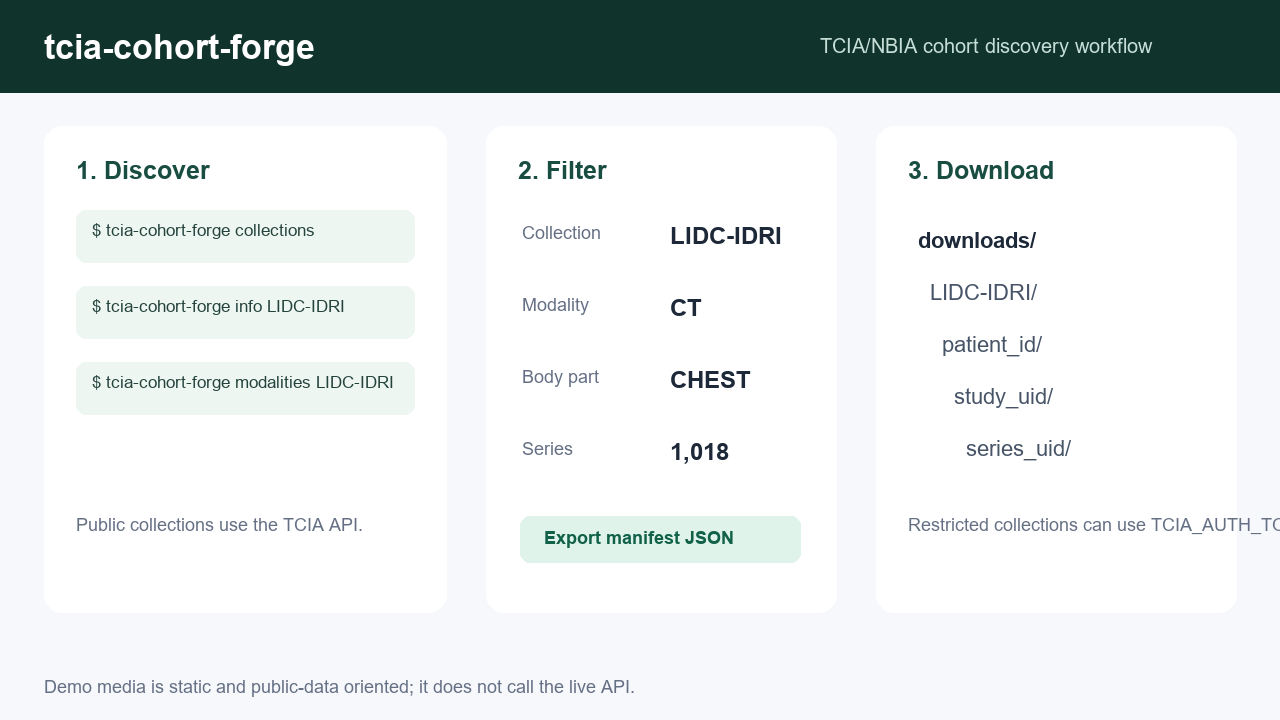
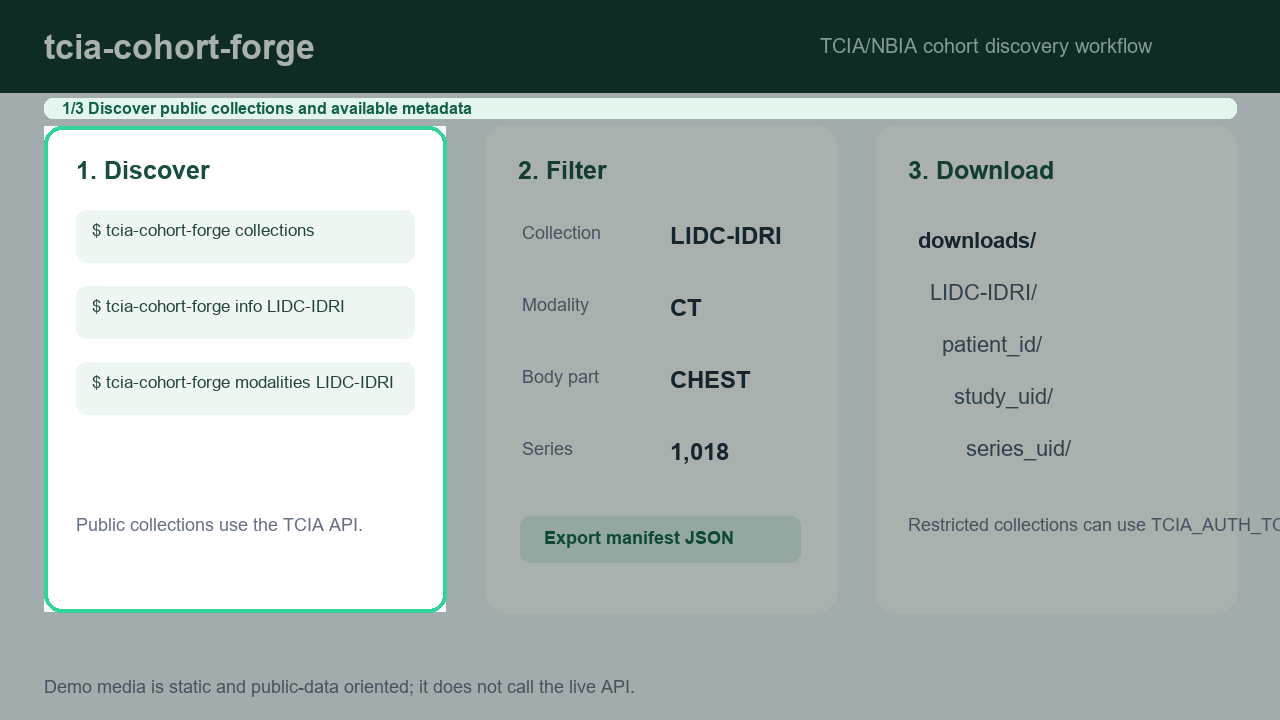
Upgrade README demo walkthrough media

diff --git a/scripts/generate_demo_media.py b/scripts/generate_demo_media.py
@@ -109,17 +109,37 @@ def render_frame() -> Image.Image:
     return image
 
 
+def guided_frame(base: Image.Image, step: int) -> Image.Image:
+    titles = (
+        "1/3 Discover public collections and available metadata",
+        "2/3 Filter a cohort before requesting any downloads",
+        "3/3 Write a manifest and organize approved series downloads",
+    )
+    focus_boxes = ((44, 126, 446, 612), (486, 126, 836, 612), (876, 126, 1236, 612))
+    dimmed = Image.blend(base, Image.new("RGB", base.size, "#0b1f1a"), 0.35)
+    focus = focus_boxes[step]
+    dimmed.paste(base.crop(focus), focus)
+    draw = ImageDraw.Draw(dimmed)
+    draw.rounded_rectangle(focus, radius=18, outline="#34d399", width=4)
+    draw.rounded_rectangle((44, 98, 1236, 118), radius=8, fill="#e3f5ed")
+    put(draw, (62, 99), titles[step], 16, "#116149", True)
+    return dimmed
+
+
 def main() -> None:
     ASSET_DIR.mkdir(parents=True, exist_ok=True)
-    frame = render_frame()
-    frame.save(ASSET_DIR / "demo-poster.png")
-    frames = [frame.copy() for _ in range(4)]
+    base = render_frame()
+    frames = [guided_frame(base, step) for step in range(3)]
+    frames[0].save(ASSET_DIR / "demo-poster.png")
     frames[0].save(
-        ASSET_DIR / "demo.gif", save_all=True, append_images=frames[1:], duration=650, loop=0
+        ASSET_DIR / "demo.gif", save_all=True, append_images=frames[1:], duration=3000, loop=0
     )
-    with imageio.get_writer(ASSET_DIR / "demo.mp4", fps=1, codec="libx264", quality=8) as writer:
-        for still in frames:
-            writer.append_data(np.asarray(still))
+    with imageio.get_writer(
+        ASSET_DIR / "demo.mp4", fps=6, codec="libx264", quality=8, macro_block_size=None
+    ) as writer:
+        for frame in frames:
+            for _ in range(18):
+                writer.append_data(np.asarray(frame))
 
 
 if __name__ == "__main__":

diff --git a/README.md b/README.md
@@ -9,7 +9,9 @@
 
 `tcia-cohort-forge` is a CLI tool that wraps the NBIA v4 REST API to let you discover TCIA collections, search for patients and studies, filter by modality/body part, and download DICOM series â€” all from the command line.
 
-![tcia-cohort-forge public workflow demo](docs/assets/demo.gif)
+[![tcia-cohort-forge public workflow demo](docs/assets/demo.gif)](https://cdn.jsdelivr.net/gh/AKaturu/tcia-cohort-forge@master/docs/assets/demo.mp4)
+
+[Play the full demo video](https://cdn.jsdelivr.net/gh/AKaturu/tcia-cohort-forge@master/docs/assets/demo.mp4)
 
 ## Evidence Status
 

diff --git a/docs/DEMO_MEDIA.md b/docs/DEMO_MEDIA.md
@@ -15,4 +15,4 @@ python -m pip install -e ".[media]"
 python scripts/generate_demo_media.py
 ```
 
-The generator renders a stable final frame and duplicates it for the GIF/MP4 so the demo does not flicker on GitHub.
+The generator creates a three-step guided walkthrough of collection discovery, cohort filtering, and manifest-oriented downloads. The GIF is the inline GitHub preview; the MP4 is the full browser-playable clip.